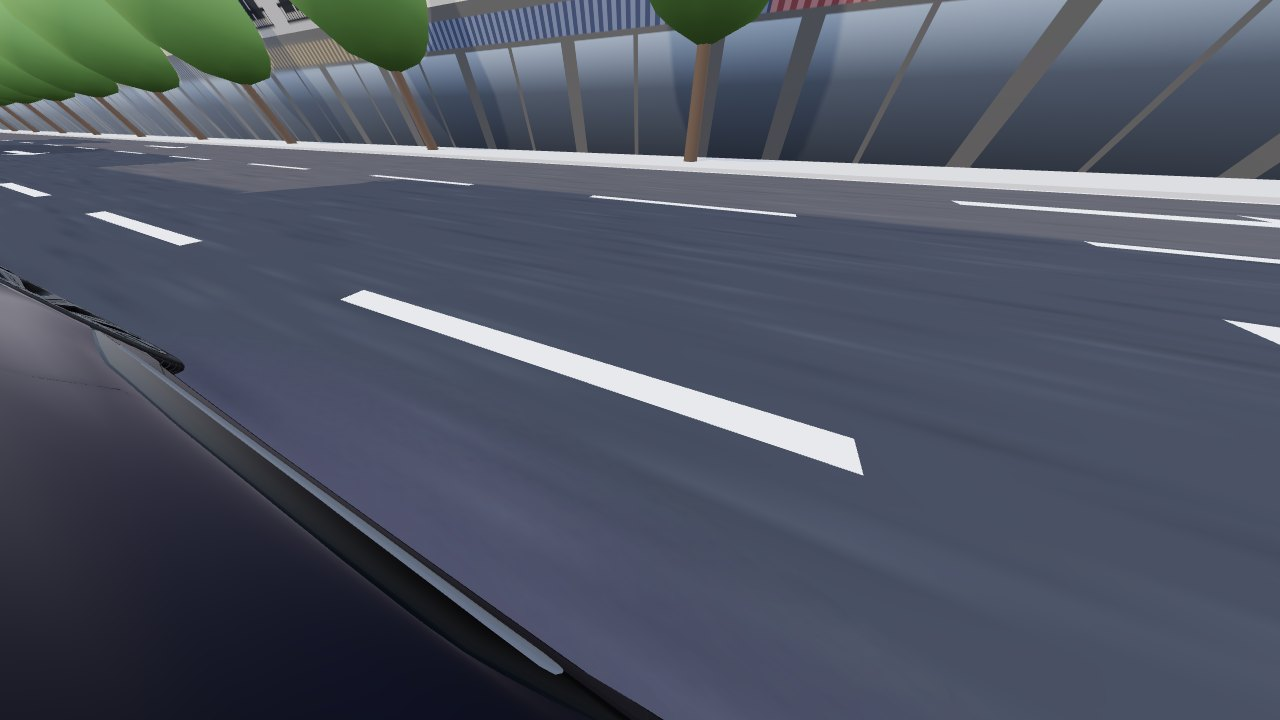
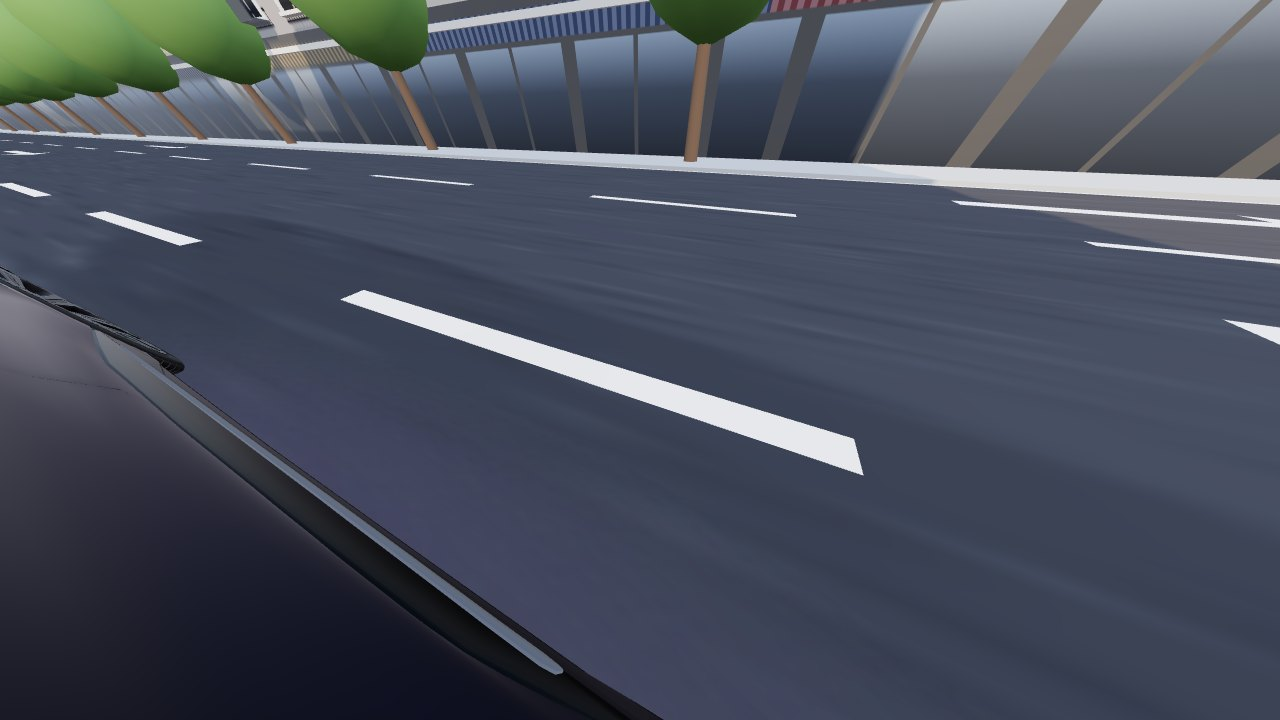
Mark 2: camera feeds in real 3D relief — window sills, lintels, frames, floor bands, parapets, glass balconies, raking sun shadows
Claude-Session: https://claude.ai/code/session_01P73dnHvCVQTA44iCgN1u2F

diff --git a/nio/mark2/prototype.html b/nio/mark2/prototype.html
@@ -4,10 +4,10 @@
 <link rel="preconnect" href="https://fonts.googleapis.com"><link rel="preconnect" href="https://fonts.gstatic.com" crossorigin>
 <link href="https://fonts.googleapis.com/css2?family=Red+Hat+Display:wght@400;500;700&family=Red+Hat+Text:wght@400;500;600;700&display=swap" rel="stylesheet">
 <link href="https://fonts.googleapis.com/css2?family=Material+Symbols+Rounded:opsz,wght,FILL,GRAD@20..48,300..500,0..1,0&display=block" rel="stylesheet">
-<link rel="stylesheet" href="hifi.css?v=138">
-<link rel="stylesheet" href="hifi-dark.css?v=138"><script src="i18n.js?v=138"></script>
+<link rel="stylesheet" href="hifi.css?v=139">
+<link rel="stylesheet" href="hifi-dark.css?v=139"><script src="i18n.js?v=139"></script>
 <script type="importmap">{"imports":{"three":"./vendor/three/build/three.module.min.js","three/addons/":"./vendor/three/addons/"}}</script>
-<link rel="modulepreload" href="vendor/three/build/three.module.min.js"><link rel="modulepreload" href="et9-3d.js?v=138"><link rel="modulepreload" href="vendor/three/addons/loaders/GLTFLoader.js">
+<link rel="modulepreload" href="vendor/three/build/three.module.min.js"><link rel="modulepreload" href="et9-3d.js?v=139"><link rel="modulepreload" href="vendor/three/addons/loaders/GLTFLoader.js">
 <link rel="preload" href="model/et9.glb" as="fetch" crossorigin="anonymous"><link rel="preload" href="model/paint.bin" as="fetch" crossorigin="anonymous">
 <script>(function(){var d=document.documentElement,q=new URLSearchParams(location.search),t='auto';try{t=localStorage.getItem('nio-theme')||'auto'}catch(e){}t=q.get('theme')||t;
 var dk=t==='dark'||(t==='auto'&&window.matchMedia&&matchMedia('(prefers-color-scheme: dark)').matches);d.dataset.pref=t;d.dataset.theme=dk?'dark':'light';d.dataset.night=q.get('night')||'plum';})();</script>
@@ -455,7 +455,7 @@ var dk=t==='dark'||(t==='auto'&&window.matchMedia&&matchMedia('(prefers-color-sc
 </div></section></div>
     <div class="ctx"><div class="card bscam" style="display:flex;flex-direction:column;gap:14px;border-style:solid;border-color:#d94a4a">
         <div class="row" style="justify-content:space-between"><div class="row" style="gap:10px"><span class="ms f" style="color:var(--t1);font-size:24px">videocam</span><span class="lbl" style="color:var(--t1)">Right blind spot</span></div><span class="row" style="gap:6px;font:500 13px 'Red Hat Text';color:#d94a4a"><i style="width:8px;height:8px;border-radius:50%;background:#d94a4a;display:block"></i>LIVE</span></div>
-        <div class="camv" style="flex:1;position:relative;overflow:hidden;background-image:url(img/camera/blindspot-right.jpg?v=138)">
+        <div class="camv" style="flex:1;position:relative;overflow:hidden;background-image:url(img/camera/blindspot-right.jpg?v=139)">
           <div class="warnbar" style="position:absolute;left:14px;right:14px;bottom:14px"><span class="ms f" style="">pedal_bike</span>Cyclist approaching · wait</div></div>
       </div><div class="card player playing grow">
       <div class="p-full">
@@ -519,7 +519,7 @@ var dk=t==='dark'||(t==='auto'&&window.matchMedia&&matchMedia('(prefers-color-sc
     <span class="ms wc-i" style="font-size:48px;color:var(--t1)">cloud</span><div class="col" style="gap:0;flex:1"><span class="b2" style="color:var(--t1)">Paris</span><span class="bs wc-t">loading…</span></div>
     <div class="col" style="gap:0;align-items:flex-end"><span class="num wc-c" style="font:400 36px/1 Red Hat Display">–</span><span class="bs num wc-h">H – · L –</span></div></div><div class="card scard wcity" data-lat="28.6139" data-lon="77.209" data-tz="Asia/Kolkata" style="flex:1;flex-direction:row;align-items:center;gap:16px;padding:20px 22px">
     <span class="ms wc-i" style="font-size:48px;color:var(--t1)">cloud</span><div class="col" style="gap:0;flex:1"><span class="b2" style="color:var(--t1)">New Delhi</span><span class="bs wc-t">loading…</span></div>
-    <div class="col" style="gap:0;align-items:flex-end"><span class="num wc-c" style="font:400 36px/1 Red Hat Display">–</span><span class="bs num wc-h">H – · L –</span></div></div></div><span class="bs">Live from Open-Meteo · local time shown for each city</span></div></template><template data-appc="Charging map"><div class="card scard"><span class="lbl">Chargers near you</span><div class="lrow" data-tap><span class="ms " style="font-size:24px;color:var(--t2)">ev_station</span><div class="col" style="gap:0;flex:1"><span class="b2" style="color:var(--t1)">SuperChargy Kirchberg</span><span class="bs">Fast charging</span></div><span class="bs num">2.1 km</span></div><div class="lrow" data-tap><span class="ms " style="font-size:24px;color:var(--t2)">ev_station</span><div class="col" style="gap:0;flex:1"><span class="b2" style="color:var(--t1)">SuperChargy Gare</span><span class="bs">Fast charging</span></div><span class="bs num">3.4 km</span></div><div class="lrow" data-tap><span class="ms " style="font-size:24px;color:var(--t2)">ev_station</span><div class="col" style="gap:0;flex:1"><span class="b2" style="color:var(--t1)">Chargy · Place de l’Europe</span><span class="bs">AC 22 kW</span></div><span class="bs num">2.6 km</span></div><div class="lrow" data-tap><span class="ms " style="font-size:24px;color:var(--t2)">battery_change</span><div class="col" style="gap:0;flex:1"><span class="b2" style="color:var(--t1)">Power Swap</span><span class="bs">On your saved route to Germany</span></div><span class="bs num">route</span></div></div></template><template data-appc="Camera"><div class="camgrid"><div class="camv" style="background-image:url(img/camera/front.jpg?v=138)"><span class="camtag">Front</span><span class="camlive">LIVE</span></div><div class="camv" style="background-image:url(img/camera/rear.jpg?v=138)"><span class="camtag">Rear</span><span class="camlive">LIVE</span></div><div class="camv" style="background-image:url(img/camera/left.jpg?v=138)"><span class="camtag">Left</span><span class="camlive">LIVE</span></div><div class="camv" style="background-image:url(img/camera/right.jpg?v=138)"><span class="camtag">Right</span><span class="camlive">LIVE</span></div></div></template><template data-appc="Pet Mode"><div class="petw"><div class="card scard pet-off" style="align-items:center;gap:12px;padding:32px;text-align:center"><span class="pet-ic"><span class="ms f" style="font-size:52px;color:var(--route)">pets</span></span><span class="h3">Pet Mode</span><span class="bs" style="max-width:420px">Keeps the cabin at 21 °C while you’re away. Doors, windows and sunshades close, the car locks, and the screen tells passers-by your pet is fine.</span><div class="btn pri" data-pet="on" data-tap><span class="ms " style="font-size:22px">pets</span><span>Turn on Pet Mode</span></div></div>
+    <div class="col" style="gap:0;align-items:flex-end"><span class="num wc-c" style="font:400 36px/1 Red Hat Display">–</span><span class="bs num wc-h">H – · L –</span></div></div></div><span class="bs">Live from Open-Meteo · local time shown for each city</span></div></template><template data-appc="Charging map"><div class="card scard"><span class="lbl">Chargers near you</span><div class="lrow" data-tap><span class="ms " style="font-size:24px;color:var(--t2)">ev_station</span><div class="col" style="gap:0;flex:1"><span class="b2" style="color:var(--t1)">SuperChargy Kirchberg</span><span class="bs">Fast charging</span></div><span class="bs num">2.1 km</span></div><div class="lrow" data-tap><span class="ms " style="font-size:24px;color:var(--t2)">ev_station</span><div class="col" style="gap:0;flex:1"><span class="b2" style="color:var(--t1)">SuperChargy Gare</span><span class="bs">Fast charging</span></div><span class="bs num">3.4 km</span></div><div class="lrow" data-tap><span class="ms " style="font-size:24px;color:var(--t2)">ev_station</span><div class="col" style="gap:0;flex:1"><span class="b2" style="color:var(--t1)">Chargy · Place de l’Europe</span><span class="bs">AC 22 kW</span></div><span class="bs num">2.6 km</span></div><div class="lrow" data-tap><span class="ms " style="font-size:24px;color:var(--t2)">battery_change</span><div class="col" style="gap:0;flex:1"><span class="b2" style="color:var(--t1)">Power Swap</span><span class="bs">On your saved route to Germany</span></div><span class="bs num">route</span></div></div></template><template data-appc="Camera"><div class="camgrid"><div class="camv" style="background-image:url(img/camera/front.jpg?v=139)"><span class="camtag">Front</span><span class="camlive">LIVE</span></div><div class="camv" style="background-image:url(img/camera/rear.jpg?v=139)"><span class="camtag">Rear</span><span class="camlive">LIVE</span></div><div class="camv" style="background-image:url(img/camera/left.jpg?v=139)"><span class="camtag">Left</span><span class="camlive">LIVE</span></div><div class="camv" style="background-image:url(img/camera/right.jpg?v=139)"><span class="camtag">Right</span><span class="camlive">LIVE</span></div></div></template><template data-appc="Pet Mode"><div class="petw"><div class="card scard pet-off" style="align-items:center;gap:12px;padding:32px;text-align:center"><span class="pet-ic"><span class="ms f" style="font-size:52px;color:var(--route)">pets</span></span><span class="h3">Pet Mode</span><span class="bs" style="max-width:420px">Keeps the cabin at 21 °C while you’re away. Doors, windows and sunshades close, the car locks, and the screen tells passers-by your pet is fine.</span><div class="btn pri" data-pet="on" data-tap><span class="ms " style="font-size:22px">pets</span><span>Turn on Pet Mode</span></div></div>
   <div class="pet-on"><span class="pet-ic big"><span class="ms f" style="font-size:72px;color:var(--route)">pets</span></span><span class="pet-msg">My owner will be back soon.<br>Don’t worry, I’m comfortable.</span><span class="pet-t num">21 °C</span><span class="bs pet-s">Cabin held at 21 °C · battery 78 % · doors locked</span><div class="btn sec" data-pet="off" data-tap><span class="ms " style="font-size:22px">power_settings_new</span><span>Turn off Pet Mode</span></div></div></div></template><template data-appc="Guard Mode"><div class="col" style="gap:14px"><div class="card scard gm-card on" style="flex-direction:row;align-items:center;gap:18px;padding:20px 24px">
   <span class="gm-orb"><span class="ms f" style="font-size:34px;color:#fff">shield</span></span><div class="col" style="gap:0;flex:1"><span class="h3 gm-st">Guard Mode is on</span><span class="bs gm-sub">Watching with 4 cameras while the ET9 is parked and locked</span></div>
   <div class="btn sec sm" data-app="Camera"><span class="ms " style="font-size:20px">videocam</span><span>Live view</span></div></div>
@@ -552,10 +552,10 @@ var dk=t==='dark'||(t==='auto'&&window.matchMedia&&matchMedia('(prefers-color-sc
 </div></div>
 <p class="disc">Map data © OpenStreetMap contributors. Vehicle figures follow published NIO ET9 specifications where available; some values are adjusted for the design study.</p>
 </div>
-<script src="hifi.js?v=138"></script>
+<script src="hifi.js?v=139"></script>
 <script src="https://cdnjs.cloudflare.com/ajax/libs/chess.js/0.10.3/chess.min.js"></script>
-<script src="hmi.js?v=138"></script>
+<script src="hmi.js?v=139"></script>
 <script src="../map/lux-map.js?v=2"></script>
-<script src="../design/nav-map.js?v=138"></script>
-<script type="module" src="et9-3d.js?v=138"></script>
+<script src="../design/nav-map.js?v=139"></script>
+<script type="module" src="et9-3d.js?v=139"></script>
 </body></html>

diff --git a/nio/mark2/batch-1.html b/nio/mark2/batch-1.html
@@ -4,7 +4,7 @@
 <link rel="preconnect" href="https://fonts.googleapis.com"><link rel="preconnect" href="https://fonts.gstatic.com" crossorigin>
 <link href="https://fonts.googleapis.com/css2?family=Red+Hat+Display:wght@400;500;700&family=Red+Hat+Text:wght@400;500;600;700&display=swap" rel="stylesheet">
 <link href="https://fonts.googleapis.com/css2?family=Material+Symbols+Rounded:opsz,wght,FILL,GRAD@20..48,300..500,0..1,0&display=block" rel="stylesheet">
-<link rel="stylesheet" href="hifi.css?v=138">
+<link rel="stylesheet" href="hifi.css?v=139">
 </head><body><div class="wrap">
 <div class="sitebar"><p class="cap">NIO ET9 CENTRE SCREEN · BATCH 1 · HIGH FIDELITY · LAVENDER LIGHT · 1440 × 900 (2880 × 1800 @2×) · built from nio/style-guide.md</p><button class="sound" type="button"></button></div>
 <nav class="toc"><a href="#drive-navigation">1 · Drive: Navigation</a><a href="#blind-spot">2 · Drive: Blind spot view</a><a href="#home">3 · Home</a><a href="#car">4 · Car</a><a href="#car-driving">5 · Car: Driving modes</a><a href="#pet-mode">6 · Pet Mode</a><a href="#parking-suggest">7 · Reserve parking, step 1: Suggest</a><a href="#edit-layout">8 · Edit layout</a><a href="#settings-display">9 · Settings › Display</a></nav>
@@ -59,7 +59,7 @@
       <!-- CONTEXT PANE -->
       <div class="ctx"><div class="card bscam" style="display:flex;flex-direction:column;gap:14px;border-style:solid;border-color:#d94a4a">
         <div class="row" style="justify-content:space-between"><div class="row" style="gap:10px"><span class="ms f" style="color:var(--t1);font-size:24px">videocam</span><span class="lbl" style="color:var(--t1)">Right blind spot</span></div><span class="row" style="gap:6px;font:500 13px 'Red Hat Text';color:#d94a4a"><i style="width:8px;height:8px;border-radius:50%;background:#d94a4a;display:block"></i>LIVE</span></div>
-        <div class="camv" style="flex:1;position:relative;overflow:hidden;background-image:url(img/camera/blindspot-right.jpg?v=138)">
+        <div class="camv" style="flex:1;position:relative;overflow:hidden;background-image:url(img/camera/blindspot-right.jpg?v=139)">
           <div class="warnbar" style="position:absolute;left:14px;right:14px;bottom:14px"><span class="ms f" style="">pedal_bike</span>Cyclist approaching · wait</div></div>
       </div>
         <div class="card player playing grow">
@@ -121,7 +121,7 @@
     <div class="ctx">
       <div class="card bscam" style="display:flex;flex-direction:column;gap:14px;border-style:solid;border-color:#d94a4a">
         <div class="row" style="justify-content:space-between"><div class="row" style="gap:10px"><span class="ms f" style="color:var(--t1);font-size:24px">videocam</span><span class="lbl" style="color:var(--t1)">Right blind spot</span></div><span class="row" style="gap:6px;font:500 13px 'Red Hat Text';color:#d94a4a"><i style="width:8px;height:8px;border-radius:50%;background:#d94a4a;display:block"></i>LIVE</span></div>
-        <div class="camv" style="flex:1;position:relative;overflow:hidden;background-image:url(img/camera/blindspot-right.jpg?v=138)">
+        <div class="camv" style="flex:1;position:relative;overflow:hidden;background-image:url(img/camera/blindspot-right.jpg?v=139)">
           <div class="warnbar" style="position:absolute;left:14px;right:14px;bottom:14px"><span class="ms f" style="">pedal_bike</span>Cyclist approaching · wait</div></div>
       </div>
       <div class="card player playing grow">
@@ -465,8 +465,8 @@
 </div></div></section>
 <p class="disc">Vehicle figures follow published NIO ET9 specifications where available; some values are adjusted for the design study. Map data © OpenStreetMap contributors. Weather, air quality and sunset: Open-Meteo, live for Luxembourg.</p>
 </div>
-<script src="hifi.js?v=138"></script>
-<script src="hmi.js?v=138"></script>
+<script src="hifi.js?v=139"></script>
+<script src="hmi.js?v=139"></script>
 <script src="../map/lux-map.js?v=2"></script>
-<script src="../design/nav-map.js?v=138"></script>
+<script src="../design/nav-map.js?v=139"></script>
 </body></html>
